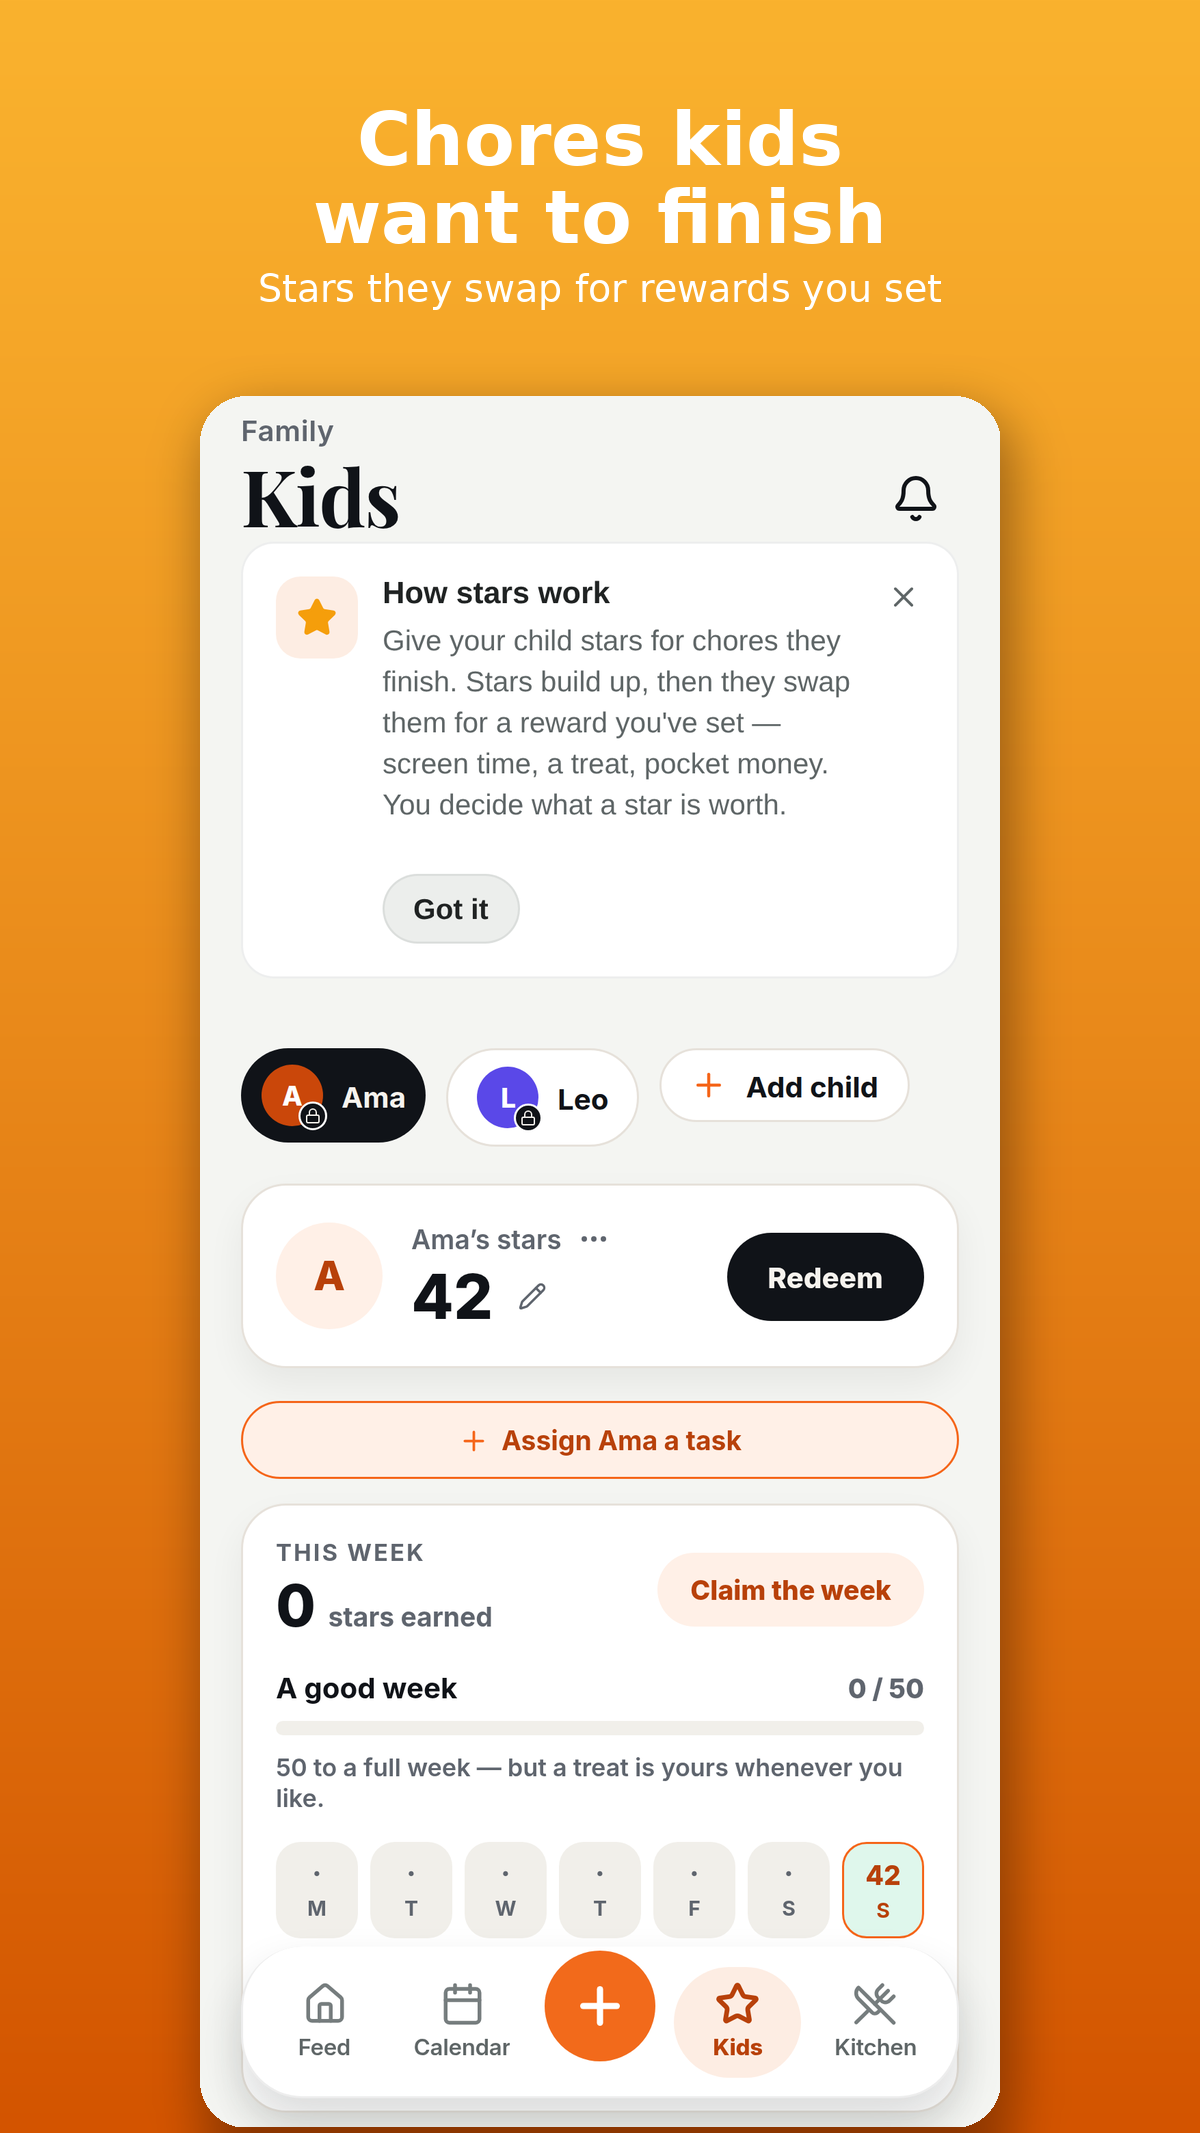
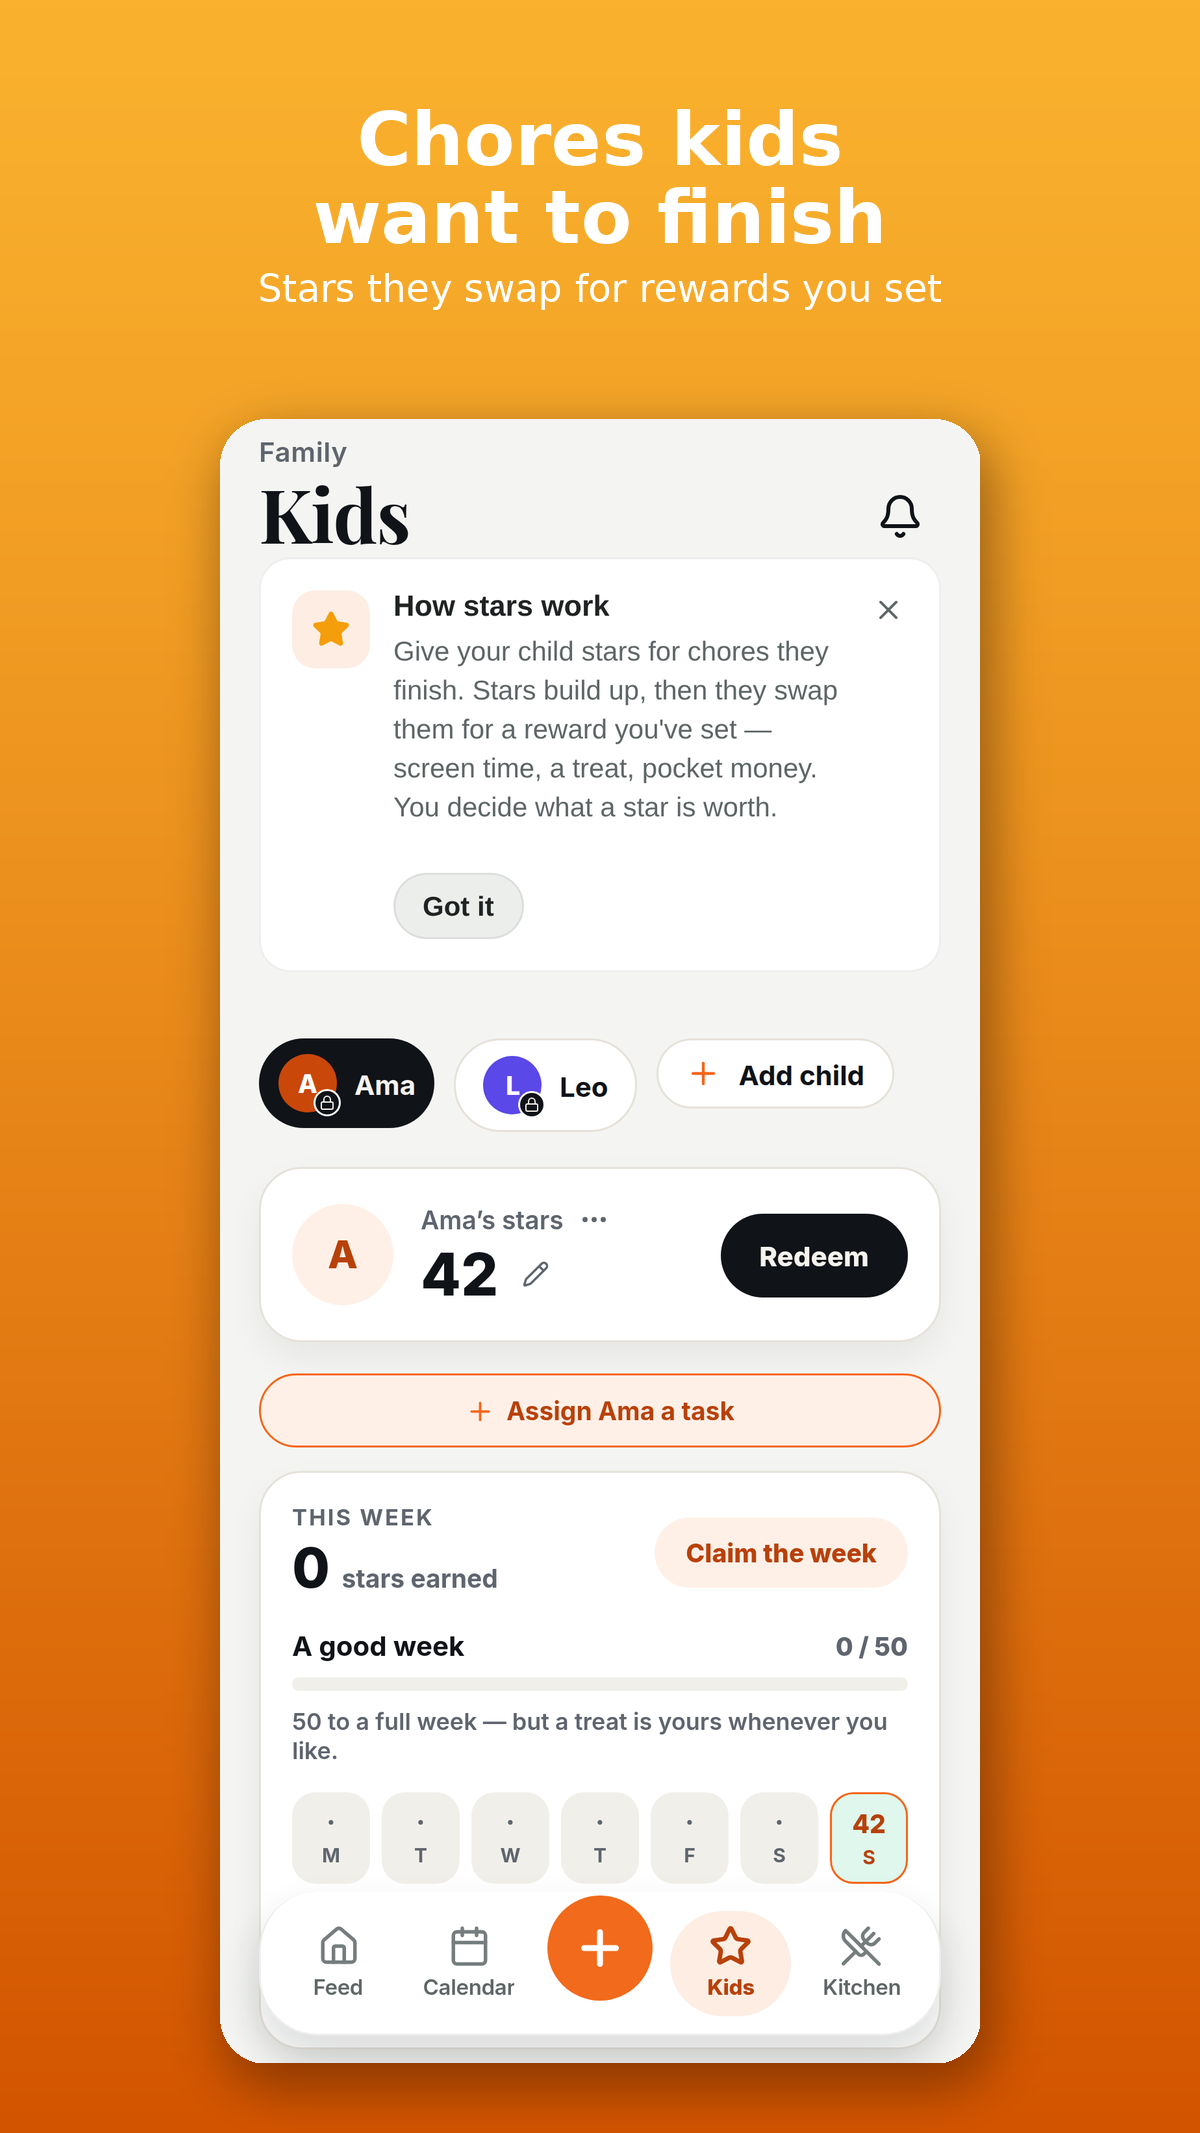
Store: populate Feed screenshot + tidy phone margins
Seed a vault doc so the getting-started card auto-completes and the Feed shows
a real handed-to-you list; add more shared tasks; give framed phones a larger
bottom margin so the tab bar never touches the canvas edge.

Claude-Session: https://claude.ai/code/session_018ymBQvDwdrh1RnnufYD5tR

diff --git a/scripts/store_capture.py b/scripts/store_capture.py
@@ -45,9 +45,15 @@ def seed():
     # Tasks (shared so they populate the shared feed)
     for title, who in [("Tidy your room", "Ama"), ("Finish homework", "Leo"),
                        ("Grocery run", "Jordan"), ("Pack school lunches", "Jordan"),
-                       ("Walk the dog", "Ama")]:
+                       ("Walk the dog", "Ama"), ("Book dentist for Ama", "Jordan"),
+                       ("Sign school permission slip", "Jordan")]:
         api("POST", "/cards", {"type": "TASK", "title": title,
                                "assignee": who, "shared": True}, tok)
+    # A vault document — this completes the 3rd "getting started" step so the
+    # onboarding checklist auto-hides and the Feed shows a real, lived-in list.
+    for title, cat in [("Passports", "Legal"), ("Home insurance", "Insurance")]:
+        api("POST", "/vault", {"title": title, "category": cat,
+                               "image_base64": "x", "mime_type": "image/jpeg"}, tok)
     # Calendar events across the week
     now = datetime.now(timezone.utc).replace(hour=15, minute=0, second=0, microsecond=0)
     for title, days, who in [("Soccer practice", 0, "Leo"), ("Dentist appointment", 1, "Ama"),

diff --git a/scripts/frame_store.py b/scripts/frame_store.py
@@ -70,13 +70,15 @@ def build(raw_name, headline, subhead, out_name):
     wrap_center(draw, subhead, sf, W / 2, y, (255, 255, 255, 235), line_gap=6)
 
     phone = Image.open(os.path.join(RAW, raw_name)).convert("RGB")
-    target_w = 800
+    target_w = 760
     target_h = int(phone.height * target_w / phone.width)
     phone = phone.resize((target_w, target_h), Image.LANCZOS)
     phone = rounded(phone, 46)
 
     px = (W - target_w) // 2
-    py = 396
+    # Sit the phone below the header with a comfortable bottom margin so the
+    # tab bar never touches the canvas edge.
+    py = max(392, H - target_h - 70)
     # soft shadow
     shadow = Image.new("RGBA", canvas.size, (0, 0, 0, 0))
     sd = ImageDraw.Draw(shadow)
